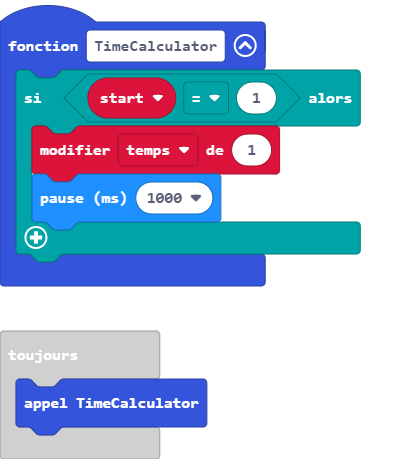
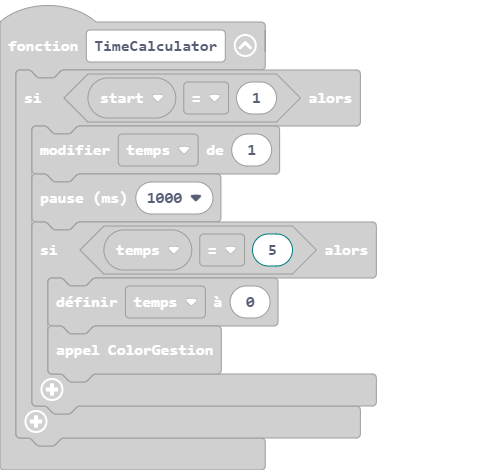
Mise à jour main.blocks, main.ts

diff --git a/main.ts b/main.ts
@@ -5,7 +5,7 @@ function TimeCalculator () {
     if (start == 1) {
         temps += 1
         basic.pause(1000)
-        if (temps == 1) {
+        if (temps == 5) {
             temps = 0
             ColorGestion()
         }
